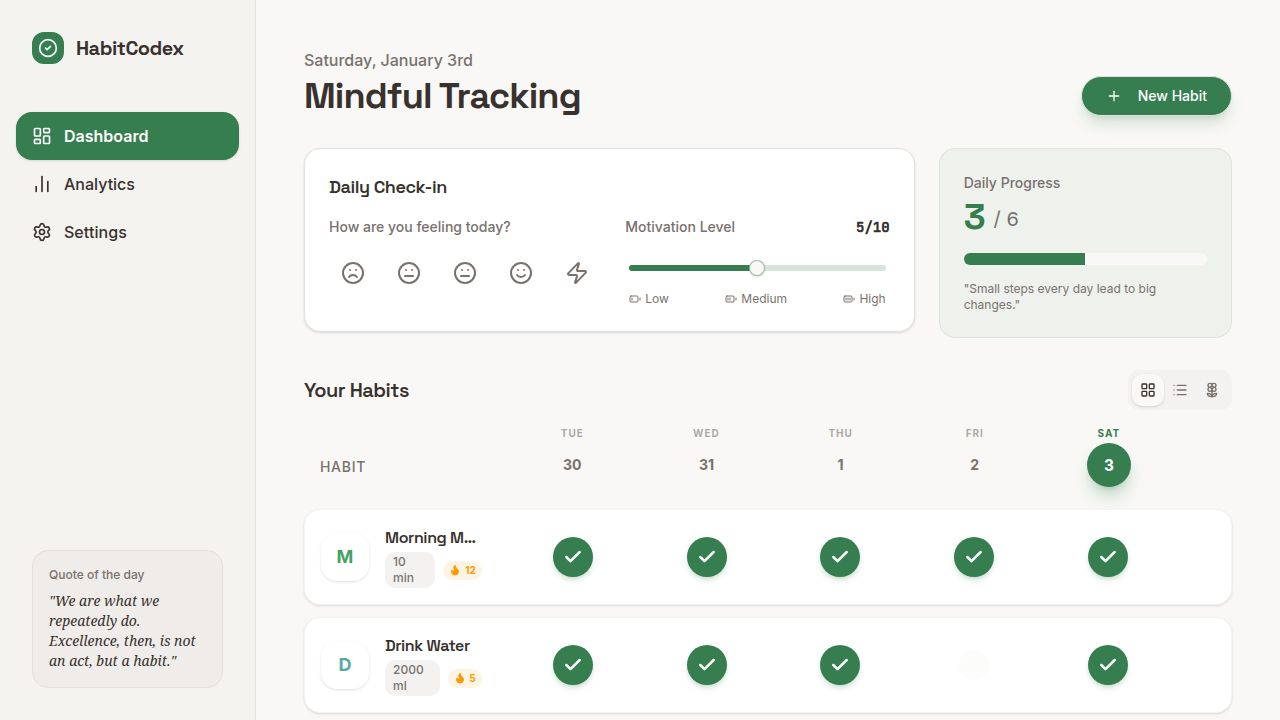
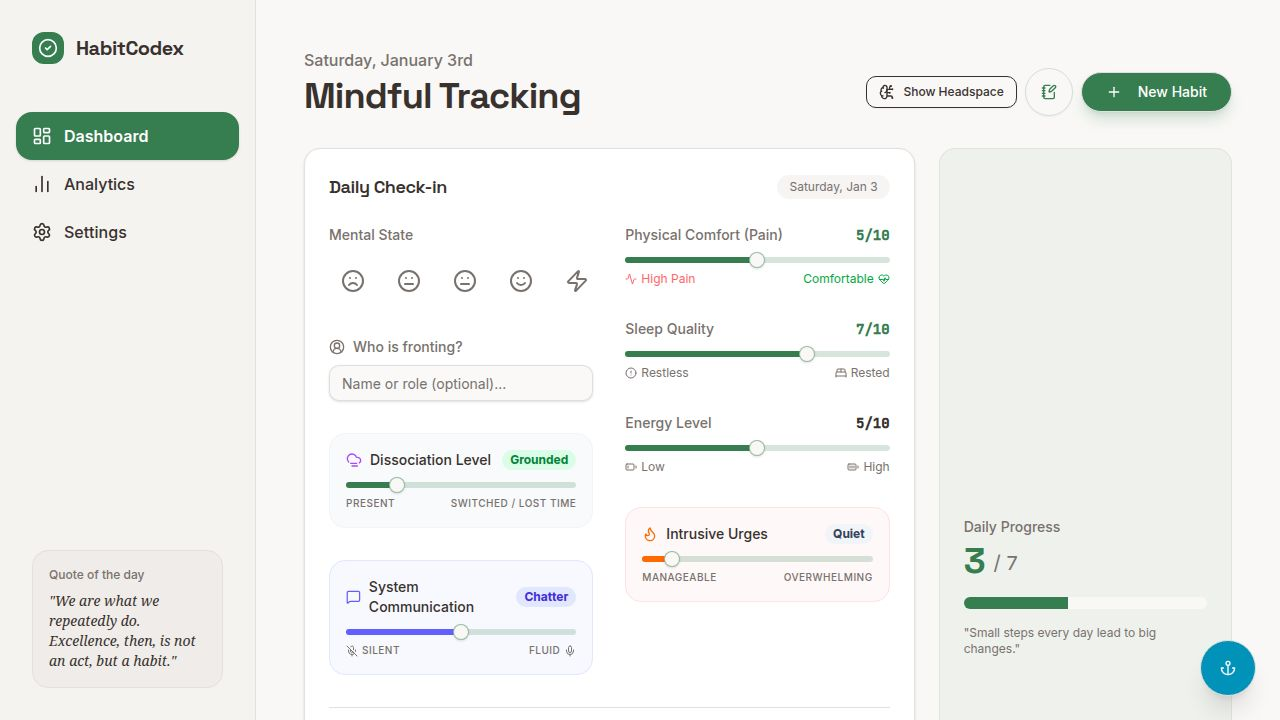
Improve daily check-in organization and remove medication tracking
Rearrange daily check-in components to group mental and system metrics together, and remove the medication adherence tracker.

Replit-Commit-Author: Agent
Replit-Commit-Session-Id: 5d9a22ed-7569-4f97-986a-f09b5bb53a0c
Replit-Commit-Checkpoint-Type: full_checkpoint
Replit-Commit-Event-Id: e96e7319-813e-461b-ba26-cf3d5bcd525d
Replit-Commit-Screenshot-Url: https://storage.googleapis.com/screenshot-production-us-central1/1e6ba508-8f48-41c6-98d9-721c048d5afd/5d9a22ed-7569-4f97-986a-f09b5bb53a0c/ubxPfzs
Replit-Helium-Checkpoint-Created: true

diff --git a/client/src/components/mood-tracker.tsx b/client/src/components/mood-tracker.tsx
@@ -1,7 +1,7 @@
 import { useState } from "react";
 import { motion } from "framer-motion";
 import { cn } from "@/lib/utils";
-import { Smile, Frown, Meh, Zap, BatteryLow, BatteryFull, Activity, HeartPulse, UserCircle2, CloudFog, Moon, BedDouble, AlertCircle, Sparkles, Flame, MessageSquare, MicOff, Mic, Pill, Plus } from "lucide-react";
+import { Smile, Frown, Meh, Zap, BatteryLow, BatteryFull, Activity, HeartPulse, UserCircle2, CloudFog, Moon, BedDouble, AlertCircle, Sparkles, Flame, MessageSquare, MicOff, Mic, Plus } from "lucide-react";
 import { Button } from "@/components/ui/button";
 import { Slider } from "@/components/ui/slider";
 import { Input } from "@/components/ui/input";
@@ -16,7 +16,6 @@ export function MoodTracker() {
   const [urges, setUrges] = useState([1]); 
   const [sleep, setSleep] = useState([7]); 
   const [systemComm, setSystemComm] = useState([5]); // System Communication
-  const [meds, setMeds] = useState<{am: boolean, noon: boolean, pm: boolean}>({am: false, noon: false, pm: false});
   const [whoIsFronting, setWhoIsFronting] = useState("");
   const [selectedTags, setSelectedTags] = useState<string[]>([]);
   const [note, setNote] = useState("");
@@ -53,9 +52,9 @@ export function MoodTracker() {
       
       <div className="grid grid-cols-1 md:grid-cols-2 gap-8">
         
-        {/* Left Column: Mental & Emotional */}
+        {/* Left Column: Mental & System */}
         <div className="space-y-8">
-            {/* Mood Selector */}
+            {/* Mood Selector - Moved to top of left column */}
             <div>
               <label className="text-sm text-muted-foreground font-medium mb-3 block">Mental State</label>
               <div className="flex justify-between gap-2">
@@ -81,7 +80,21 @@ export function MoodTracker() {
               </div>
             </div>
 
-            {/* Dissociation Scale (New) */}
+            {/* Fronting Input - Moved up for visibility */}
+            <div>
+                <label className="text-sm text-muted-foreground font-medium mb-2 block flex items-center gap-2">
+                   <UserCircle2 className="w-4 h-4" />
+                   Who is fronting?
+                </label>
+                <Input 
+                   placeholder="Name or role (optional)..." 
+                   value={whoIsFronting}
+                   onChange={(e) => setWhoIsFronting(e.target.value)}
+                   className="bg-muted/30 border-muted-foreground/20"
+                />
+            </div>
+
+            {/* Dissociation Scale */}
             <div className="bg-slate-50 dark:bg-slate-900/50 p-4 rounded-xl border border-slate-100 dark:border-slate-800">
                <div className="flex items-center justify-between mb-3">
                   <div className="flex items-center gap-2">
@@ -109,37 +122,8 @@ export function MoodTracker() {
                   <span>Switched / Lost Time</span>
                 </div>
             </div>
-
-            {/* Intrusive Urges (New) */}
-            <div className="bg-red-50/50 dark:bg-red-900/10 p-4 rounded-xl border border-red-100 dark:border-red-900/30">
-               <div className="flex items-center justify-between mb-3">
-                  <div className="flex items-center gap-2">
-                    <Flame className="w-4 h-4 text-orange-500" />
-                    <label className="text-sm font-medium">Intrusive Urges</label>
-                  </div>
-                  <span className={cn(
-                    "text-xs font-bold px-2 py-0.5 rounded-full",
-                    urges[0] < 3 ? "bg-slate-100 text-slate-700" :
-                    urges[0] < 7 ? "bg-orange-100 text-orange-700" : "bg-red-100 text-red-700"
-                  )}>
-                    {urges[0] < 3 ? "Quiet" : urges[0] < 7 ? "Present" : "Intense"}
-                  </span>
-               </div>
-               
-               <Slider
-                  value={urges}
-                  onValueChange={setUrges}
-                  max={10}
-                  step={1}
-                  className="cursor-pointer mb-2 [&_.bg-primary]:bg-orange-500"
-                />
-                <div className="flex justify-between text-[10px] text-muted-foreground uppercase tracking-wider font-medium">
-                  <span>Manageable</span>
-                  <span>Overwhelming</span>
-                </div>
-            </div>
-
-            {/* System Communication (New) */}
+            
+             {/* System Communication */}
             <div className="bg-indigo-50/50 dark:bg-indigo-900/10 p-4 rounded-xl border border-indigo-100 dark:border-indigo-900/30">
                <div className="flex items-center justify-between mb-3">
                   <div className="flex items-center gap-2">
@@ -167,20 +151,6 @@ export function MoodTracker() {
                   <span className="flex items-center gap-1">Fluid <Mic className="w-3 h-3" /></span>
                 </div>
             </div>
-
-            {/* Fronting Input */}
-            <div>
-                <label className="text-sm text-muted-foreground font-medium mb-2 block flex items-center gap-2">
-                   <UserCircle2 className="w-4 h-4" />
-                   Who is fronting?
-                </label>
-                <Input 
-                   placeholder="Name or role (optional)..." 
-                   value={whoIsFronting}
-                   onChange={(e) => setWhoIsFronting(e.target.value)}
-                   className="bg-muted/30 border-muted-foreground/20"
-                />
-            </div>
         </div>
 
         {/* Right Column: Physical & Factors */}
@@ -204,7 +174,7 @@ export function MoodTracker() {
                </div>
             </div>
 
-            {/* Sleep Quality (New) */}
+            {/* Sleep Quality */}
             <div>
                <div className="flex items-center justify-between mb-3">
                   <label className="text-sm text-muted-foreground font-medium">Sleep Quality</label>
@@ -241,35 +211,34 @@ export function MoodTracker() {
                   <span className="flex items-center gap-1"><BatteryFull className="w-3 h-3" /> High</span>
                </div>
             </div>
-
-            {/* Medication Tracker (New) */}
-            <div className="bg-emerald-50/50 dark:bg-emerald-900/10 p-4 rounded-xl border border-emerald-100 dark:border-emerald-900/30">
-               <div className="flex items-center gap-2 mb-3">
-                  <Pill className="w-4 h-4 text-emerald-600" />
-                  <label className="text-sm font-medium">Medication Adherence</label>
+            
+            {/* Intrusive Urges (Moved here to balance) */}
+            <div className="bg-red-50/50 dark:bg-red-900/10 p-4 rounded-xl border border-red-100 dark:border-red-900/30">
+               <div className="flex items-center justify-between mb-3">
+                  <div className="flex items-center gap-2">
+                    <Flame className="w-4 h-4 text-orange-500" />
+                    <label className="text-sm font-medium">Intrusive Urges</label>
+                  </div>
+                  <span className={cn(
+                    "text-xs font-bold px-2 py-0.5 rounded-full",
+                    urges[0] < 3 ? "bg-slate-100 text-slate-700" :
+                    urges[0] < 7 ? "bg-orange-100 text-orange-700" : "bg-red-100 text-red-700"
+                  )}>
+                    {urges[0] < 3 ? "Quiet" : urges[0] < 7 ? "Present" : "Intense"}
+                  </span>
                </div>
                
-               <div className="flex justify-between gap-2">
-                  {[
-                    { key: 'am', label: 'Morning' },
-                    { key: 'noon', label: 'Midday' },
-                    { key: 'pm', label: 'Night' }
-                  ].map((time) => (
-                    <button
-                      key={time.key}
-                      onClick={() => setMeds({...meds, [time.key]: !meds[time.key as keyof typeof meds]})}
-                      className={cn(
-                        "flex-1 flex flex-col items-center gap-1 p-2 rounded-lg border transition-all text-xs font-medium",
-                        meds[time.key as keyof typeof meds]
-                          ? "bg-emerald-100 border-emerald-200 text-emerald-800 dark:bg-emerald-900 dark:text-emerald-100"
-                          : "bg-background border-border text-muted-foreground hover:bg-muted"
-                      )}
-                    >
-                       <div className={cn("w-3 h-3 rounded-full border", meds[time.key as keyof typeof meds] ? "bg-emerald-500 border-emerald-500" : "border-slate-300")} />
-                       {time.label}
-                    </button>
-                  ))}
-               </div>
+               <Slider
+                  value={urges}
+                  onValueChange={setUrges}
+                  max={10}
+                  step={1}
+                  className="cursor-pointer mb-2 [&_.bg-primary]:bg-orange-500"
+                />
+                <div className="flex justify-between text-[10px] text-muted-foreground uppercase tracking-wider font-medium">
+                  <span>Manageable</span>
+                  <span>Overwhelming</span>
+                </div>
             </div>
         </div>
       </div>
